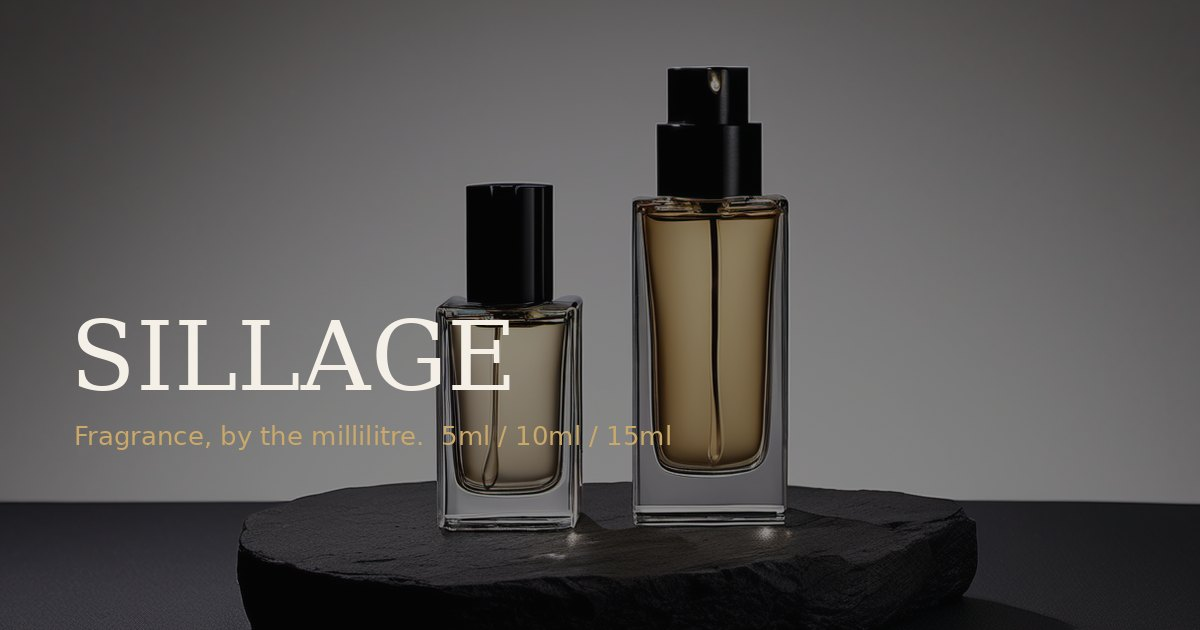
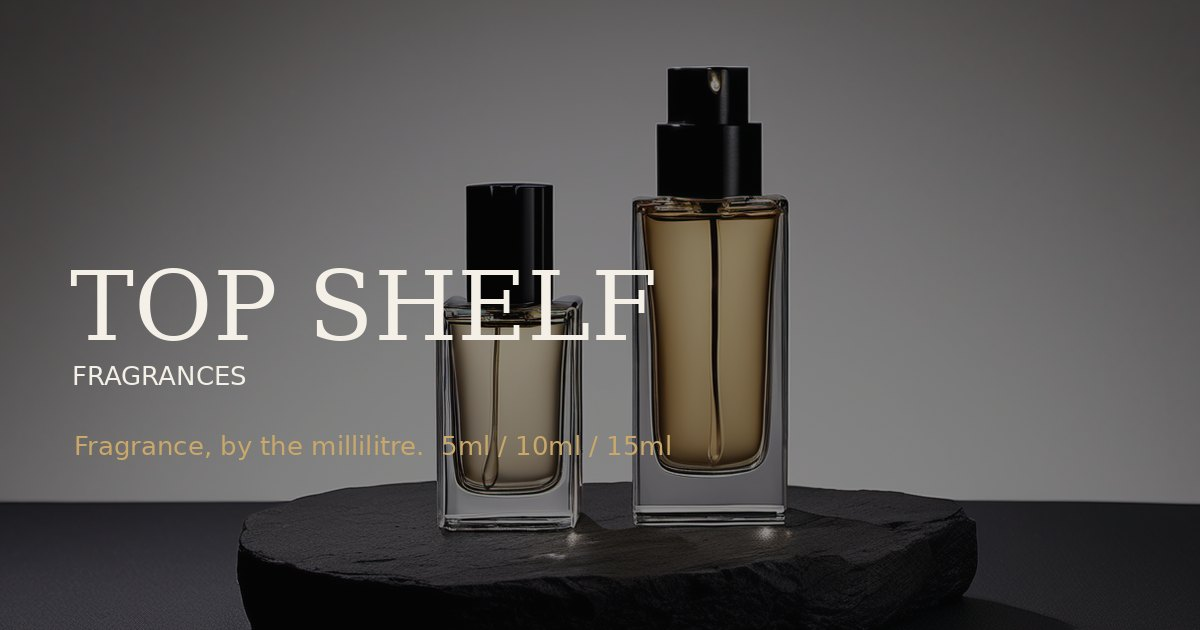
Rename to Top Shelf Fragrances

Changed region(s): [[0.0617, 0.4222, 0.555, 0.6333], [0.0617, 0.6635, 0.555, 0.7238]]

diff --git a/layouts/_default/baseof.html b/layouts/_default/baseof.html
@@ -27,8 +27,8 @@
 <header class="site-head">
   <div class="wrap head-in">
     <a class="brand" href="{{ site.Home.RelPermalink }}" aria-label="{{ $p.brand }} home">
-      <span class="brand-mark">S</span>
-      <span class="brand-word">{{ $p.brand }}</span>
+      <span class="brand-mark">T</span>
+      <span class="brand-word">Top Shelf<span class="brand-tail"> Fragrances</span></span>
     </a>
     <nav class="head-nav" aria-label="Main">
       <a class="nav-shop" href="{{ "shop/" | relURL }}">Shop</a>
@@ -47,7 +47,7 @@
 <footer class="site-foot">
   <div class="wrap foot-in">
     <div class="foot-brand">
-      <span class="brand-mark">S</span>
+      <span class="brand-mark">T</span>
       <p class="foot-tag">{{ $p.tagline }}</p>
     </div>
     <div class="foot-cols">
@@ -95,7 +95,7 @@
 </div>
 
 <script>
-window.SILLAGE = {
+window.TSF = {
   products: [
   {{- range $i, $f := where site.RegularPages "Section" "fragrances" -}}
     {{- if $i }},{{ end -}}

diff --git a/static/css/site.css b/static/css/site.css
@@ -69,7 +69,8 @@ p{margin:0}
   border:1px solid rgba(244,240,232,.35);border-radius:50%;
   font-family:var(--serif);font-size:15px;line-height:1;padding-bottom:2px;
 }
-.brand-word{font-family:var(--serif);font-size:19px;letter-spacing:.14em;text-transform:uppercase}
+.brand-word{font-family:var(--serif);font-size:17px;letter-spacing:.12em;text-transform:uppercase;white-space:nowrap}
+.brand-tail{display:none}
 .head-nav{display:flex;gap:18px;font-size:12px;letter-spacing:.06em}
 .head-nav a{color:#b6afa4}
 .head-nav .nav-how{display:none}
@@ -300,7 +301,8 @@ p{margin:0}
   .head-nav{gap:26px;font-size:13px}
   .head-nav .nav-how{display:inline}
   .head-in{height:74px}
-  .brand-word{font-size:22px}
+  .brand-word{font-size:20px}
+  .brand-tail{display:inline}
   .grid{grid-template-columns:repeat(3,1fr);gap:20px}
   .hero{min-height:92svh}
   .hero-img{object-position:88% 50%}

diff --git a/static/js/cart.js b/static/js/cart.js
@@ -1,6 +1,6 @@
 (() => {
-  const S = window.SILLAGE || {};
-  const KEY = "sillage-bag";
+  const S = window.TSF || {};
+  const KEY = "tsf-bag";
   const $ = (s, r = document) => r.querySelector(s);
   const $$ = (s, r = document) => Array.from(r.querySelectorAll(s));
   const money = (n) => "$" + (Math.round(n * 100) / 100).toFixed(n % 1 ? 2 : 0);

diff --git a/scripts/convert.py b/scripts/convert.py
@@ -33,8 +33,9 @@ if os.path.exists(hero):
         small = ImageFont.truetype("/usr/share/fonts/truetype/dejavu/DejaVuSans.ttf", 26)
     except Exception:
         big = small = ImageFont.load_default()
-    d.text((70, 300), "SILLAGE", font=big, fill=(244, 240, 232))
-    d.text((74, 420), "Fragrance, by the millilitre.  5ml / 10ml / 15ml", font=small, fill=(201, 168, 106))
+    d.text((70, 250), "TOP SHELF", font=big, fill=(244, 240, 232))
+    d.text((72, 360), "FRAGRANCES", font=small, fill=(244, 240, 232))
+    d.text((74, 430), "Fragrance, by the millilitre.  5ml / 10ml / 15ml", font=small, fill=(201, 168, 106))
     im.save(os.path.join(OUT, "og.jpg"), "JPEG", quality=86)
     print("og", os.path.getsize(os.path.join(OUT, "og.jpg")))
 

diff --git a/README.md b/README.md
@@ -1,4 +1,4 @@
-# Sillage: demo storefront
+# Top Shelf Fragrances: demo storefront
 
 A pitch demo for a fragrance decant shop. Hugo, hand written CSS, vanilla JS cart.
 No backend, no payment provider, no accounts.
